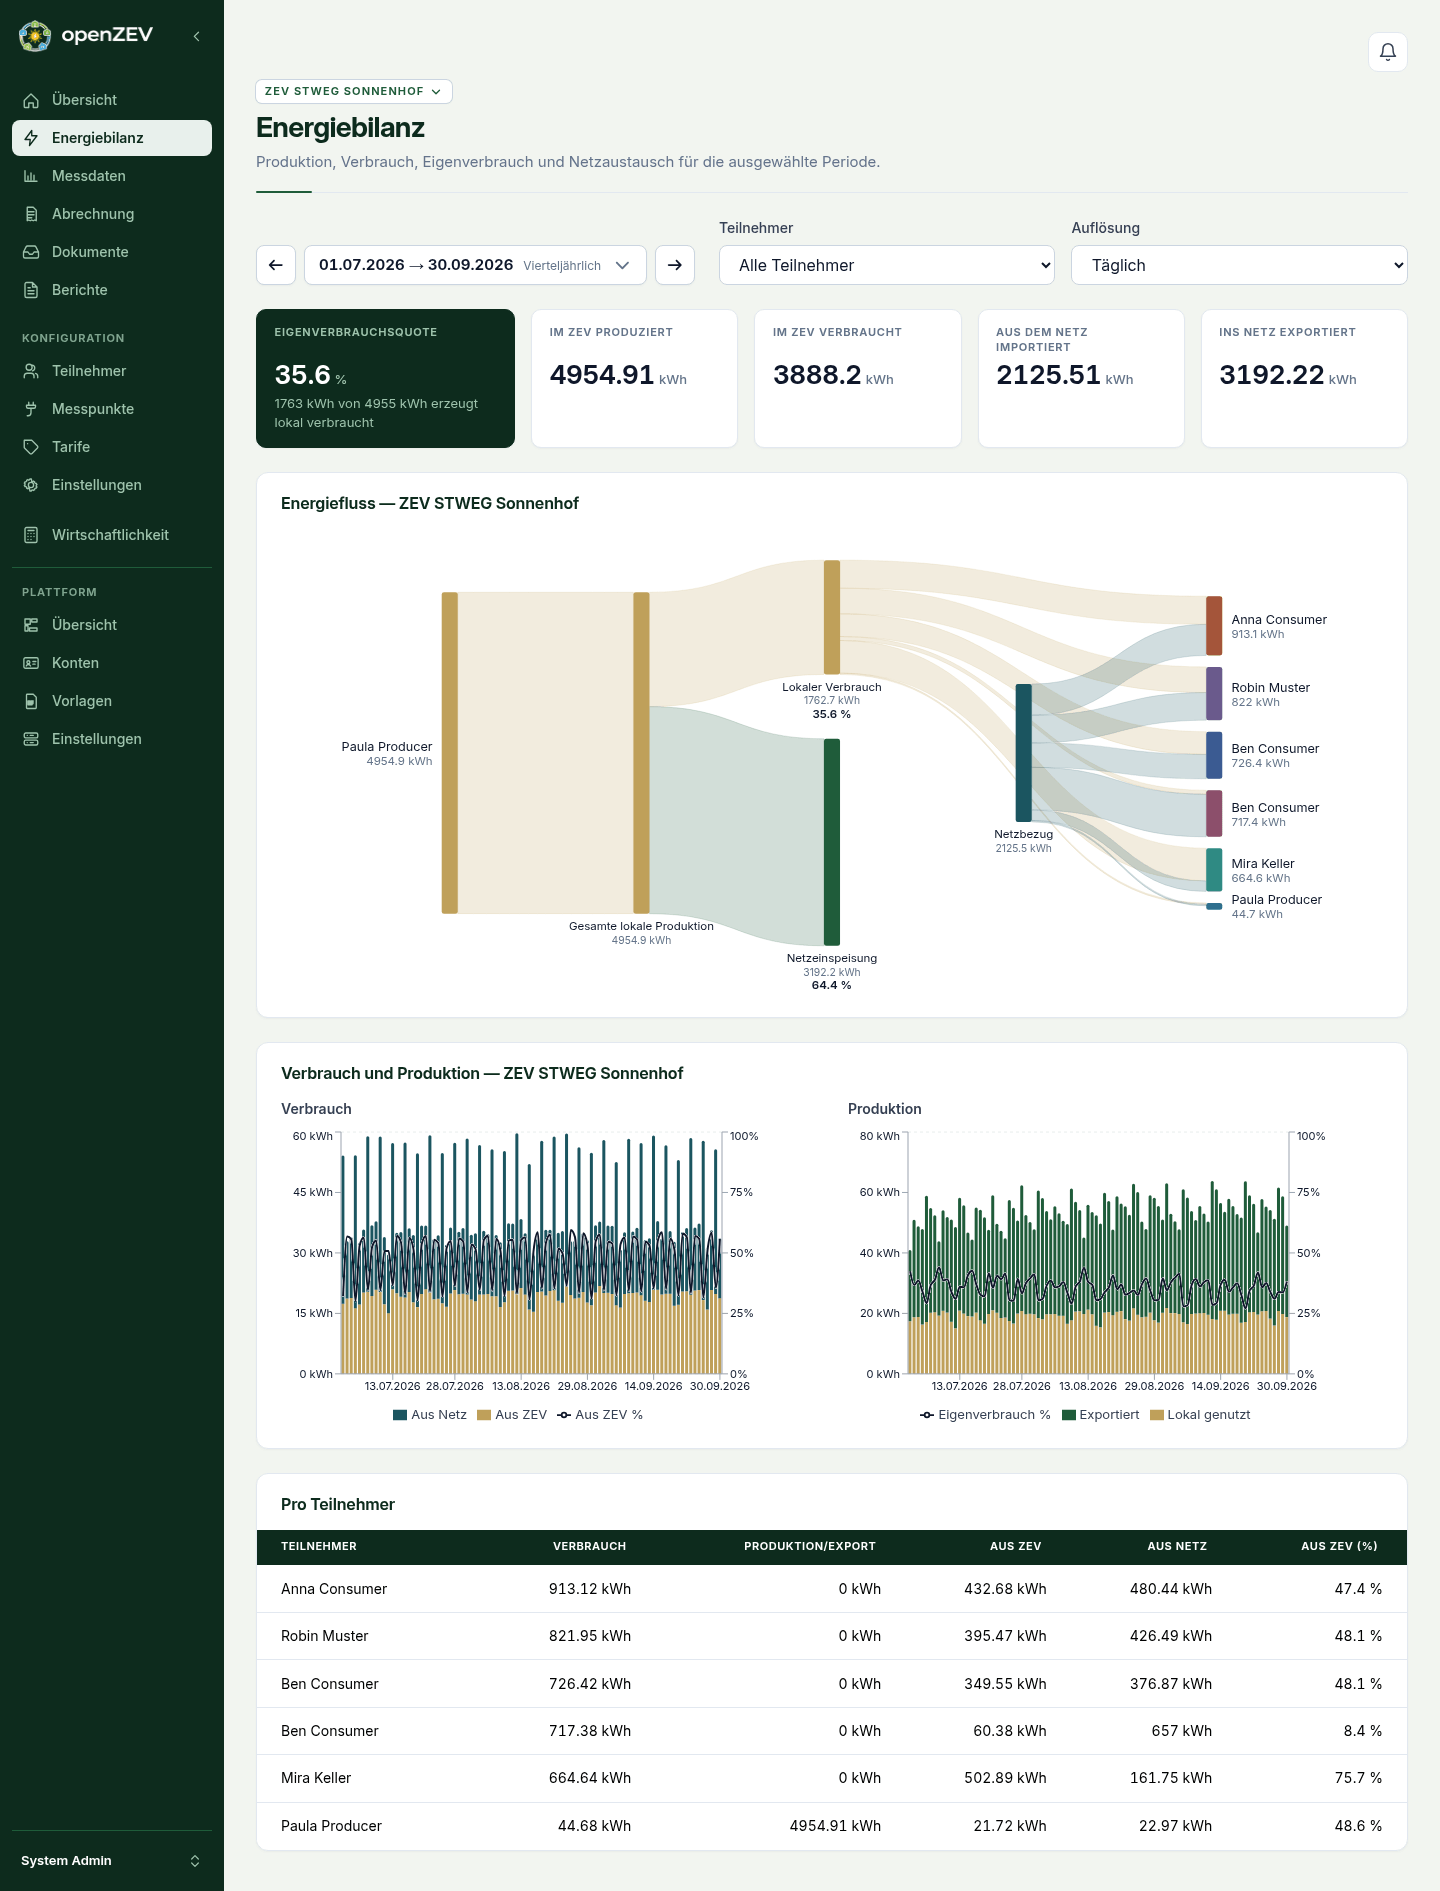
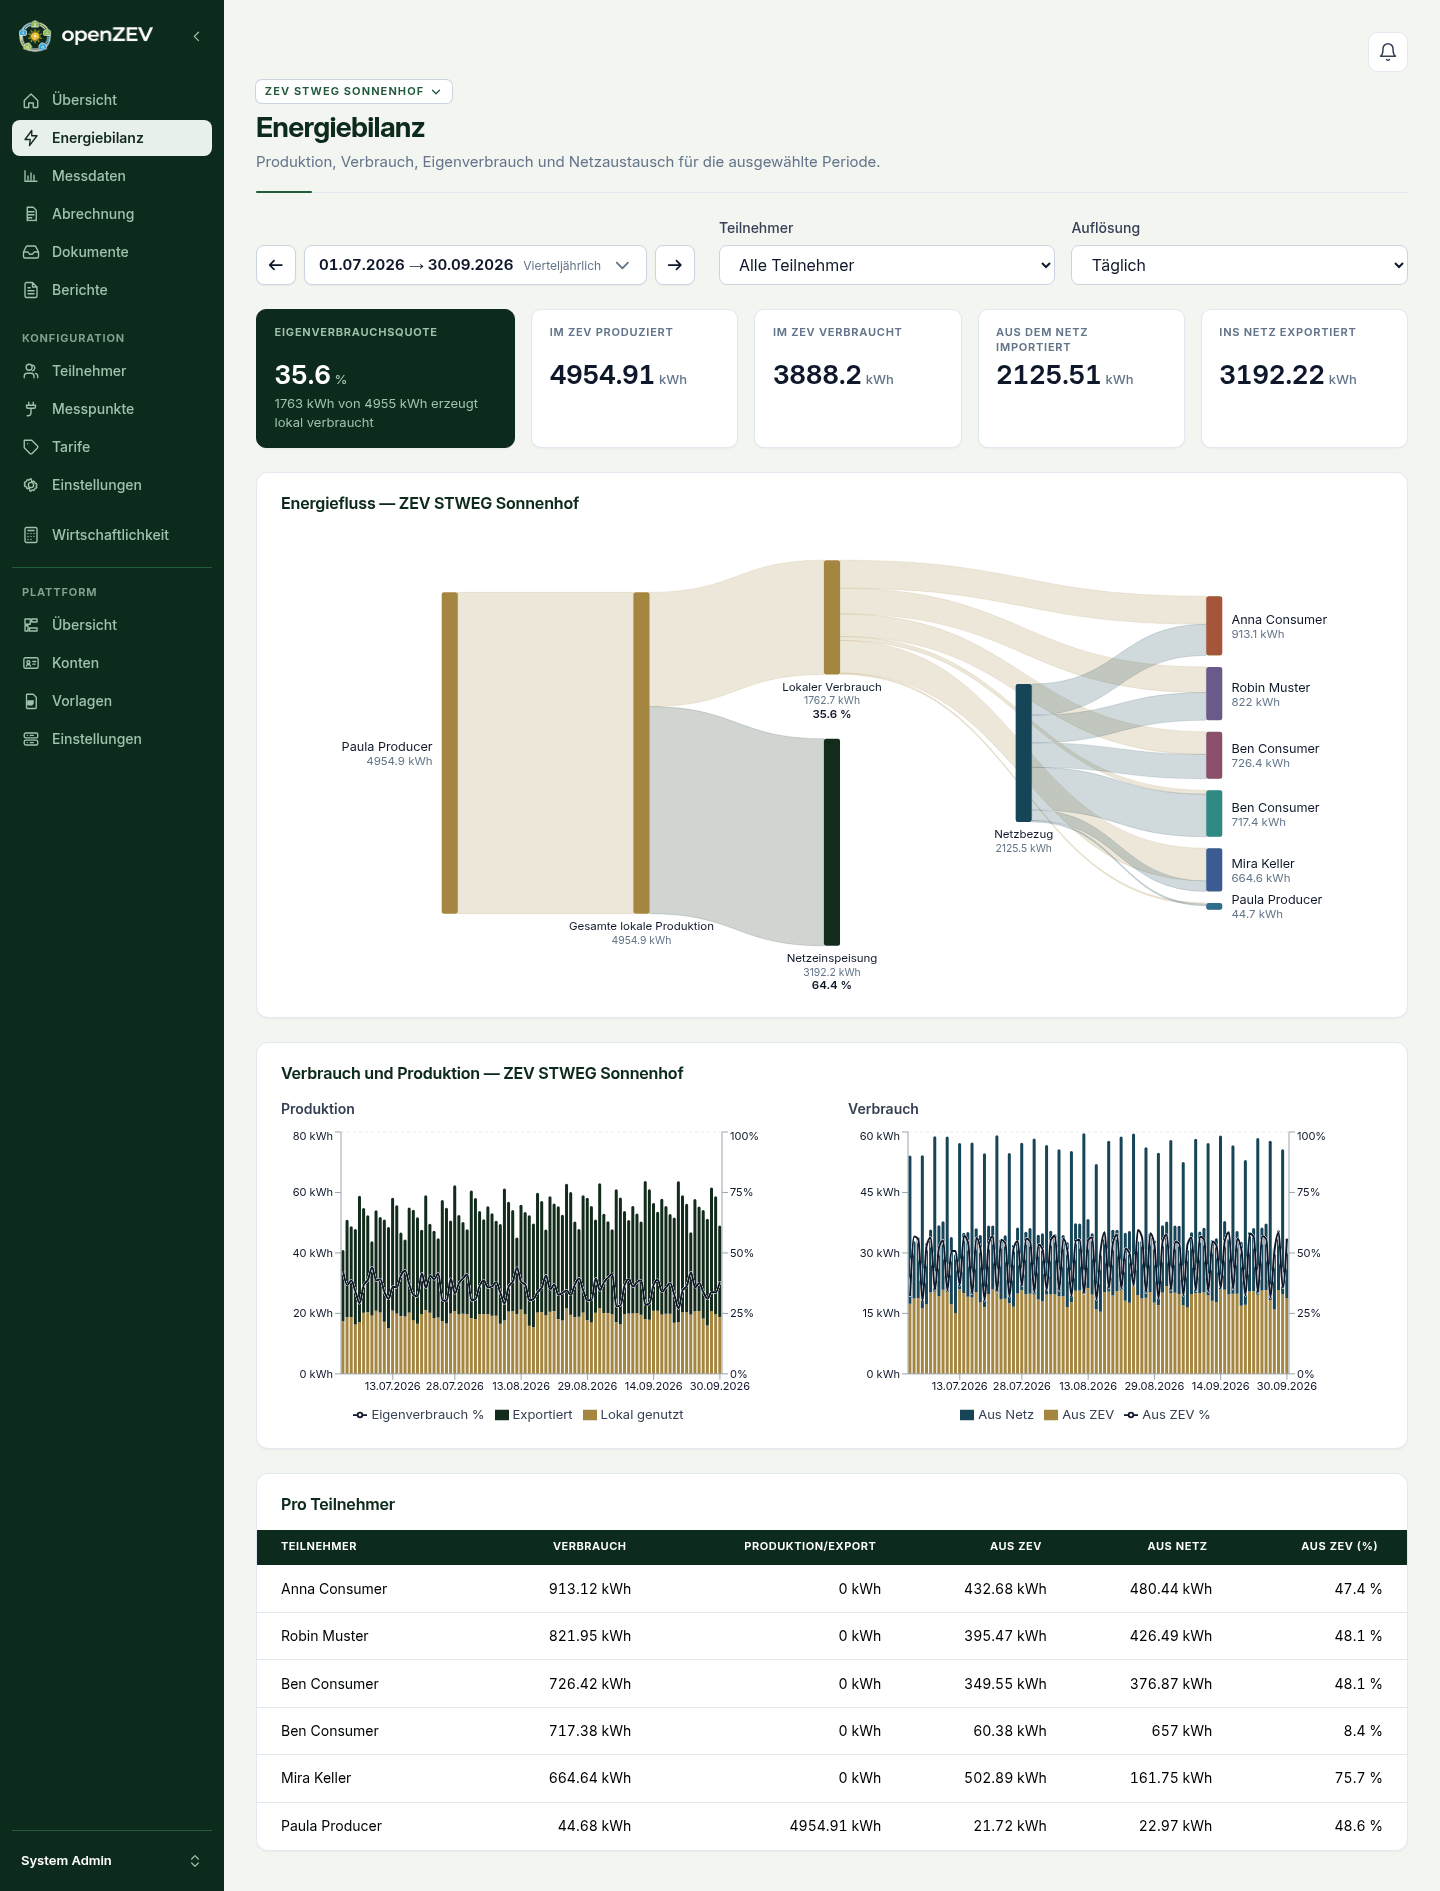
feat(dashboard): show production before consumption in the energy balance
The charts now read left to right like the energy flow above them:
production first, then consumption.

diff --git a/frontend/src/components/dashboard/BalanceChart.tsx b/frontend/src/components/dashboard/BalanceChart.tsx
@@ -43,40 +43,6 @@ export function BalanceChart({
                 <div className="balance-chart-grid">
                     <div>
                         <p className="balance-chart-label" style={{ color: CHART_LABEL }}>
-                            {t('pages.dashboard.consumption')}
-                        </p>
-                        <ResponsiveContainer width="100%" height={300}>
-                            <ComposedChart data={data} margin={{ top: 4, right: 50, bottom: 4, left: 0 }}>
-                                <CartesianGrid stroke={CHART_GRIDLINE} strokeDasharray="3 3" vertical={false} />
-                                <XAxis dataKey="bucket" tick={CHART_AXIS_TICK} stroke={AXIS_COLOR} tickFormatter={formatBucketLabel} />
-                                <YAxis yAxisId="kwh" tick={CHART_AXIS_TICK} stroke={AXIS_COLOR} unit=" kWh" width={60} tickFormatter={kwhTick} />
-                                <YAxis yAxisId="pct" orientation="right" tick={CHART_AXIS_TICK} stroke={AXIS_COLOR} unit="%" width={44} domain={[0, 100]} />
-                                <Tooltip
-                                    contentStyle={CHART_TOOLTIP_STYLE}
-                                    labelFormatter={formatBucketTooltipLabel}
-                                    formatter={(v, name, props) =>
-                                        formatConsumptionMixTooltip(v, String(name), props?.dataKey, t('pages.dashboard.chart.fromZevPct'))
-                                    }
-                                />
-                                <Legend />
-                                <Bar yAxisId="kwh" dataKey="locally_consumed" name={t('pages.dashboard.chart.fromZev')} stackId="c" fill={CHART_LOCAL} />
-                                <Bar yAxisId="kwh" dataKey="imported_kwh" name={t('pages.dashboard.chart.fromGrid')} stackId="c" fill={CHART_GRID} radius={[3, 3, 0, 0]} />
-                                <Line
-                                    yAxisId="pct"
-                                    type="monotone"
-                                    dataKey="from_zev_rate"
-                                    name={t('pages.dashboard.chart.fromZevPct')}
-                                    className="chart-line-halo"
-                                    stroke={CHART_RATIO}
-                                    dot={false}
-                                    strokeWidth={2}
-                                    connectNulls
-                                />
-                            </ComposedChart>
-                        </ResponsiveContainer>
-                    </div>
-                    <div>
-                        <p className="balance-chart-label" style={{ color: CHART_LABEL }}>
                             {t('pages.dashboard.production')}
                         </p>
                         <ResponsiveContainer width="100%" height={300}>
@@ -100,6 +66,40 @@ export function BalanceChart({
                                     type="monotone"
                                     dataKey="self_consumption_rate"
                                     name={t('pages.dashboard.chart.selfConsumedPct')}
+                                    className="chart-line-halo"
+                                    stroke={CHART_RATIO}
+                                    dot={false}
+                                    strokeWidth={2}
+                                    connectNulls
+                                />
+                            </ComposedChart>
+                        </ResponsiveContainer>
+                    </div>
+                    <div>
+                        <p className="balance-chart-label" style={{ color: CHART_LABEL }}>
+                            {t('pages.dashboard.consumption')}
+                        </p>
+                        <ResponsiveContainer width="100%" height={300}>
+                            <ComposedChart data={data} margin={{ top: 4, right: 50, bottom: 4, left: 0 }}>
+                                <CartesianGrid stroke={CHART_GRIDLINE} strokeDasharray="3 3" vertical={false} />
+                                <XAxis dataKey="bucket" tick={CHART_AXIS_TICK} stroke={AXIS_COLOR} tickFormatter={formatBucketLabel} />
+                                <YAxis yAxisId="kwh" tick={CHART_AXIS_TICK} stroke={AXIS_COLOR} unit=" kWh" width={60} tickFormatter={kwhTick} />
+                                <YAxis yAxisId="pct" orientation="right" tick={CHART_AXIS_TICK} stroke={AXIS_COLOR} unit="%" width={44} domain={[0, 100]} />
+                                <Tooltip
+                                    contentStyle={CHART_TOOLTIP_STYLE}
+                                    labelFormatter={formatBucketTooltipLabel}
+                                    formatter={(v, name, props) =>
+                                        formatConsumptionMixTooltip(v, String(name), props?.dataKey, t('pages.dashboard.chart.fromZevPct'))
+                                    }
+                                />
+                                <Legend />
+                                <Bar yAxisId="kwh" dataKey="locally_consumed" name={t('pages.dashboard.chart.fromZev')} stackId="c" fill={CHART_LOCAL} />
+                                <Bar yAxisId="kwh" dataKey="imported_kwh" name={t('pages.dashboard.chart.fromGrid')} stackId="c" fill={CHART_GRID} radius={[3, 3, 0, 0]} />
+                                <Line
+                                    yAxisId="pct"
+                                    type="monotone"
+                                    dataKey="from_zev_rate"
+                                    name={t('pages.dashboard.chart.fromZevPct')}
                                     className="chart-line-halo"
                                     stroke={CHART_RATIO}
                                     dot={false}

diff --git a/docs/specs/2026-08-ui-redesign-pdf-style.md b/docs/specs/2026-08-ui-redesign-pdf-style.md
@@ -472,12 +472,13 @@ live on Reports; participant invoice PDF actions remain on the dashboard.
      generation.
   2. `EnergyFlowCard` (when there are participant stats), highlighting the
      selected participant.
-  3. `BalanceChart`, on the filtered timeline. The consumption chart stacks
-     from-ZEV (consumed − imported) over from-grid kWh, with a right-hand
-     0–100 % axis carrying the `from_zev_rate` line (locally consumed ÷
-     consumed; empty when the selected participant has behind-meter
-     generation). The production chart stacks used-locally over exported, with
-     the self-consumption-rate line on the same kind of axis.
+  3. `BalanceChart`, on the filtered timeline: production first, then
+     consumption, in the energy flow's left-to-right order. The production
+     chart stacks used-locally over exported, with the self-consumption-rate
+     line on a right-hand 0–100 % axis. The consumption chart stacks from-ZEV
+     (consumed − imported) over from-grid kWh, with the same kind of axis
+     carrying the `from_zev_rate` line (locally consumed ÷ consumed; empty
+     when the selected participant has behind-meter generation).
   4. `ParticipantTableCard` (sortable raw-value headers, with row selection retained): consumption, production/export, from ZEV, from
      grid and from-ZEV % per participant (reported gross-energy rates for
      behind-meter participants, or — when withheld). A
